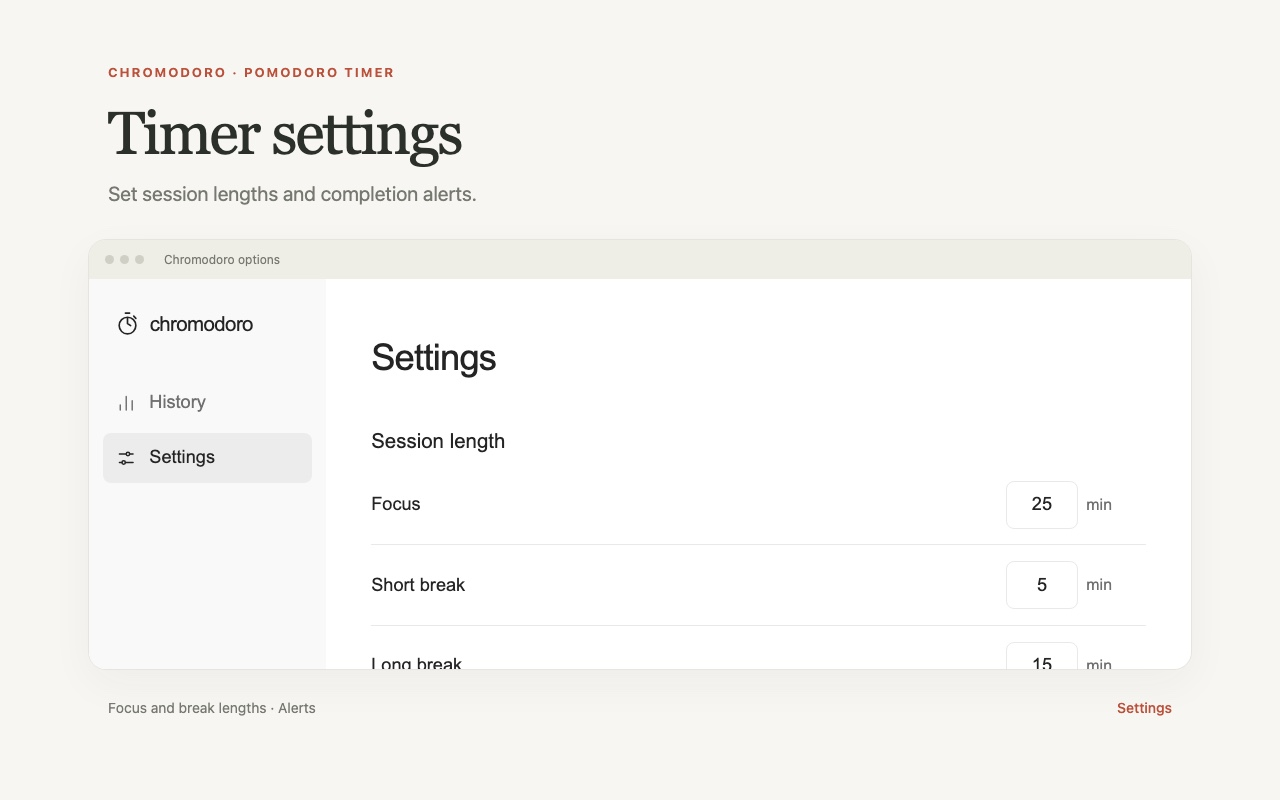
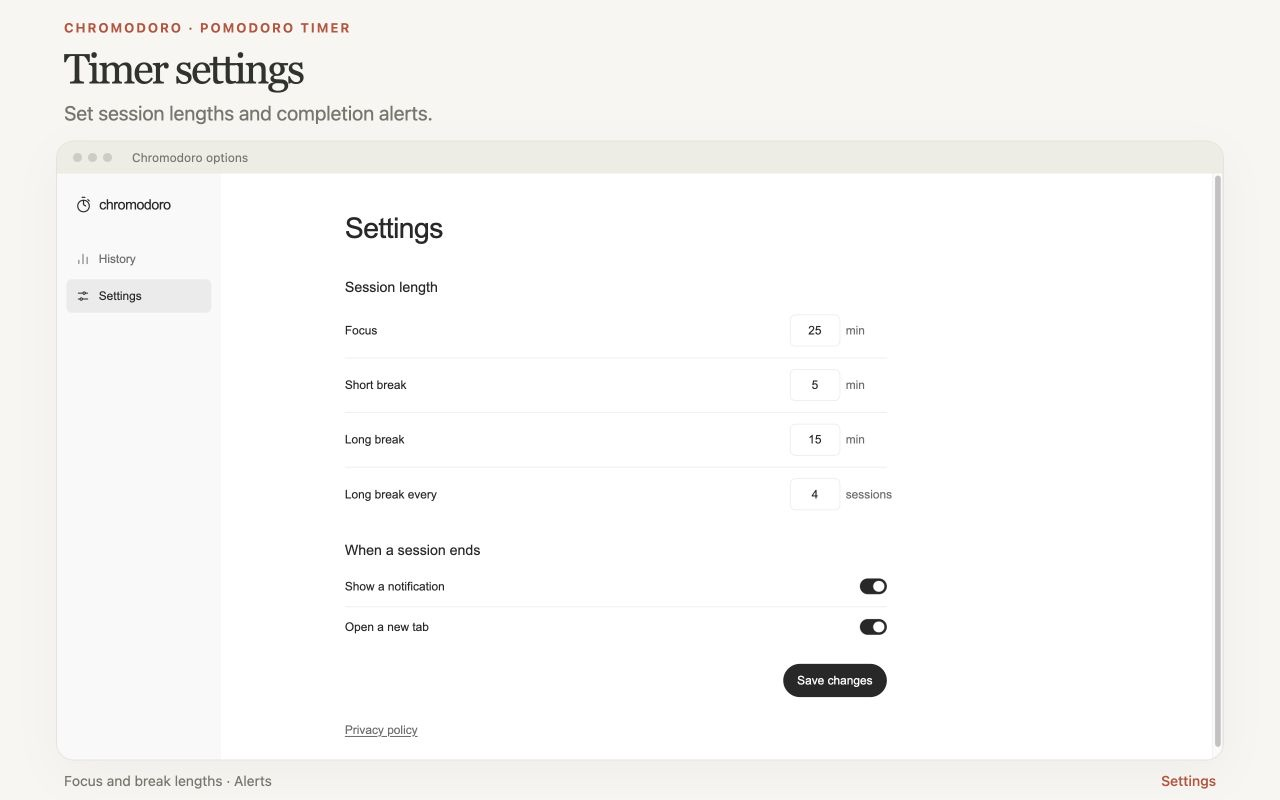
also fixed the competion page

diff --git a/alert.html b/alert.html
@@ -3,35 +3,31 @@
 <head>
   <meta charset="UTF-8">
   <meta name="viewport" content="width=device-width, initial-scale=1">
-  <title>Chromodoro</title>
+  <title>Session complete · Chromodoro</title>
   <link rel="icon" type="image/png" sizes="32x32" href="icons/icon32.png">
-  <style>
-    :root{color-scheme:light;--bg:#f7f6f2;--paper:#fffefa;--text:#2c302b;--muted:#76796f;--line:#e6e5dd;--accent:#bb513b;--green:#39745d;font-family:Inter,-apple-system,BlinkMacSystemFont,"Segoe UI",sans-serif;font-size:16px}
-    *{box-sizing:border-box}
-    body{margin:0;min-height:100vh;display:flex;align-items:center;justify-content:center;background:var(--bg);color:var(--text)}
-    main{text-align:center;padding:24px}
-    img{width:56px;height:56px}
-    h1{font-family:Georgia,serif;font-weight:400;font-size:40px;letter-spacing:-1.4px;margin:22px 0 10px}
-    p{color:var(--muted);font-size:17px;margin:0 0 34px}
-    .actions{display:flex;gap:10px;justify-content:center;flex-wrap:wrap}
-    button{font:inherit;cursor:pointer;border-radius:9px;padding:15px 28px;font-size:16px;font-weight:550;outline-offset:4px}
-    button:focus-visible{outline:2px solid var(--accent)}
-    button:disabled{cursor:default;opacity:.48}
-    .primary{background:var(--accent);color:#fff;border:0}.primary:hover{background:#a64632}
-    .primary.break{background:var(--green)}.primary.break:hover{background:#2e6150}
-    .secondary{background:transparent;border:1px solid var(--line);color:var(--text)}.secondary:hover{background:var(--paper)}
-  </style>
+  <link rel="stylesheet" href="styles.css">
   <script type="module" src="alert.js"></script>
 </head>
 <body>
-  <main>
-    <img src="icons/icon128.png" alt="">
-    <h1 id="headline">Session complete</h1>
-    <p id="detail"></p>
-    <div class="actions">
-      <button id="primary" class="primary" disabled></button>
-      <button id="secondary" class="secondary" hidden>Skip to focus</button>
-    </div>
-  </main>
+  <a class="skip-link" href="#main">Skip to content</a>
+  <div class="app-shell">
+    <aside class="sidebar">
+      <a class="brand" href="history.html" aria-label="Chromodoro home"><svg class="brand-icon" viewBox="0 0 24 24" fill="none" stroke="currentColor" stroke-width="1.6" stroke-linecap="round" stroke-linejoin="round" aria-hidden="true"><path d="M10 2h4M12 7v5l3 2M18 5l2 2"/><circle cx="12" cy="14" r="8"/></svg>chromodoro</a>
+      <nav class="page-nav" aria-label="Main navigation">
+        <a href="history.html"><svg viewBox="0 0 24 24" fill="none" stroke="currentColor" stroke-width="1.7" stroke-linecap="round" aria-hidden="true"><path d="M5 20v-6M12 20V4M19 20V9"/></svg>History</a>
+        <a href="options.html"><svg viewBox="0 0 24 24" fill="none" stroke="currentColor" stroke-width="1.7" stroke-linecap="round" aria-hidden="true"><path d="M4 7h8m4 0h4M4 17h3m4 0h9"/><circle cx="14" cy="7" r="2"/><circle cx="9" cy="17" r="2"/></svg>Settings</a>
+      </nav>
+    </aside>
+    <main id="main" class="page-content completion-content">
+      <section class="completion-panel" aria-labelledby="headline">
+        <h1 id="headline">Session complete</h1>
+        <p id="detail" class="muted" role="status"></p>
+        <div class="completion-actions">
+          <button id="primary" class="button primary" type="button" disabled></button>
+          <button id="secondary" class="button" type="button" hidden>Skip to focus</button>
+        </div>
+      </section>
+    </main>
+  </div>
 </body>
 </html>

diff --git a/store/history-screenshot.html b/store/history-screenshot.html
@@ -1,4 +1,4 @@
 <!doctype html>
 <html lang="en"><head><meta charset="utf-8"><title>Chromodoro history screenshot</title>
-<style>*{box-sizing:border-box}body{margin:0;width:1280px;height:800px;overflow:hidden;background:#f7f6f2;color:#2c302b;font-family:-apple-system,BlinkMacSystemFont,"Segoe UI",sans-serif}.intro{padding:64px 108px 34px}.eyebrow{font-size:13px;letter-spacing:2px;font-weight:650;color:#bb513b;text-transform:uppercase}h1{font-family:Georgia,serif;font-size:60px;line-height:1.05;letter-spacing:-2px;font-weight:400;margin:22px 0 17px}.intro p{font-size:20px;color:#76796f;margin:0}.window{margin:0 88px;background:#f7f6f2;border:1px solid #e6e5dd;border-radius:18px;overflow:hidden;box-shadow:0 14px 44px #2c302b0b}.bar{height:39px;background:#eeede6;display:flex;align-items:center;padding:0 16px;gap:6px}.dot{width:9px;height:9px;border-radius:50%;background:#d0cfc5}.label{font-size:12px;color:#76796f;margin-left:14px}iframe{display:block;width:100%;height:410px;border:0}.foot{margin:29px 108px;font-size:14px;color:#76796f;display:flex;justify-content:space-between}.foot strong{font-weight:500;color:#bb513b}</style></head>
-<body><div class="intro"><div class="eyebrow">Chromodoro · Pomodoro timer</div><h1>Pomodoro history</h1><p>Daily session counts and CSV export.</p></div><div class="window"><div class="bar"><i class="dot"></i><i class="dot"></i><i class="dot"></i><span class="label">Pomodoro history</span></div><iframe src="../history.html" title="Actual Chromodoro history interface with example data"></iframe></div><div class="foot"><span>Daily totals · Past year · CSV export</span><strong>Example history</strong></div></body></html>
+<style>*{box-sizing:border-box}body{margin:0;width:1280px;height:800px;overflow:hidden;background:#f7f6f2;color:#2c302b;font-family:-apple-system,BlinkMacSystemFont,"Segoe UI",sans-serif}.intro{padding:20px 64px 16px}.eyebrow{font-size:13px;letter-spacing:2px;font-weight:650;color:#bb513b;text-transform:uppercase}h1{font-family:Georgia,serif;font-size:42px;line-height:1.05;letter-spacing:-2px;font-weight:400;margin:12px 0 10px}.intro p{font-size:20px;color:#76796f;margin:0}.window{margin:0 56px;background:#f7f6f2;border:1px solid #e6e5dd;border-radius:18px;overflow:hidden;box-shadow:0 14px 44px #2c302b0b}.bar{height:32px;background:#eeede6;display:flex;align-items:center;padding:0 16px;gap:6px}.dot{width:9px;height:9px;border-radius:50%;background:#d0cfc5}.label{font-size:12px;color:#76796f;margin-left:14px}.viewport{height:586px;overflow:hidden}iframe{display:block;width:142.857143%;height:837.142857px;border:0;transform:scale(.7);transform-origin:top left}.foot{margin:12px 64px;font-size:14px;color:#76796f;display:flex;justify-content:space-between}.foot strong{font-weight:500;color:#bb513b}</style></head>
+<body><div class="intro"><div class="eyebrow">Chromodoro · Pomodoro timer</div><h1>Pomodoro history</h1><p>Your focus history, with Chrome account sync.</p></div><div class="window"><div class="bar"><i class="dot"></i><i class="dot"></i><i class="dot"></i><span class="label">Pomodoro history</span></div><div class="viewport"><iframe src="../history.html" title="Actual Chromodoro history interface with example data"></iframe></div></div><div class="foot"><span>Past year · Chrome sync · CSV export</span><strong>Example history</strong></div></body></html>

diff --git a/store/settings-screenshot.html b/store/settings-screenshot.html
@@ -1,4 +1,4 @@
 <!doctype html>
 <html lang="en"><head><meta charset="utf-8"><title>Chromodoro settings screenshot</title>
-<style>*{box-sizing:border-box}body{margin:0;width:1280px;height:800px;overflow:hidden;background:#f7f6f2;color:#2c302b;font-family:-apple-system,BlinkMacSystemFont,"Segoe UI",sans-serif}.intro{padding:64px 108px 34px}.eyebrow{font-size:13px;letter-spacing:2px;font-weight:650;color:#bb513b;text-transform:uppercase}h1{font-family:Georgia,serif;font-size:60px;line-height:1.05;letter-spacing:-2px;font-weight:400;margin:22px 0 17px}.intro p{font-size:20px;color:#76796f;margin:0}.window{margin:0 88px;background:#f7f6f2;border:1px solid #e6e5dd;border-radius:18px;overflow:hidden;box-shadow:0 14px 44px #2c302b0b}.bar{height:39px;background:#eeede6;display:flex;align-items:center;padding:0 16px;gap:6px}.dot{width:9px;height:9px;border-radius:50%;background:#d0cfc5}.label{font-size:12px;color:#76796f;margin-left:14px}iframe{display:block;width:100%;height:390px;border:0}.foot{margin:29px 108px;font-size:14px;color:#76796f;display:flex;justify-content:space-between}.foot strong{font-weight:500;color:#bb513b}</style></head>
-<body><div class="intro"><div class="eyebrow">Chromodoro · Pomodoro timer</div><h1>Timer settings</h1><p>Set session lengths and completion alerts.</p></div><div class="window"><div class="bar"><i class="dot"></i><i class="dot"></i><i class="dot"></i><span class="label">Chromodoro options</span></div><iframe src="../options.html" title="Actual Chromodoro settings interface"></iframe></div><div class="foot"><span>Focus and break lengths · Alerts</span><strong>Settings</strong></div></body></html>
+<style>*{box-sizing:border-box}body{margin:0;width:1280px;height:800px;overflow:hidden;background:#f7f6f2;color:#2c302b;font-family:-apple-system,BlinkMacSystemFont,"Segoe UI",sans-serif}.intro{padding:20px 64px 16px}.eyebrow{font-size:13px;letter-spacing:2px;font-weight:650;color:#bb513b;text-transform:uppercase}h1{font-family:Georgia,serif;font-size:42px;line-height:1.05;letter-spacing:-2px;font-weight:400;margin:12px 0 10px}.intro p{font-size:20px;color:#76796f;margin:0}.window{margin:0 56px;background:#f7f6f2;border:1px solid #e6e5dd;border-radius:18px;overflow:hidden;box-shadow:0 14px 44px #2c302b0b}.bar{height:32px;background:#eeede6;display:flex;align-items:center;padding:0 16px;gap:6px}.dot{width:9px;height:9px;border-radius:50%;background:#d0cfc5}.label{font-size:12px;color:#76796f;margin-left:14px}.viewport{height:586px;overflow:hidden}iframe{display:block;width:142.857143%;height:837.142857px;border:0;transform:scale(.7);transform-origin:top left}.foot{margin:12px 64px;font-size:14px;color:#76796f;display:flex;justify-content:space-between}.foot strong{font-weight:500;color:#bb513b}</style></head>
+<body><div class="intro"><div class="eyebrow">Chromodoro · Pomodoro timer</div><h1>Timer settings</h1><p>Set session lengths and completion alerts.</p></div><div class="window"><div class="bar"><i class="dot"></i><i class="dot"></i><i class="dot"></i><span class="label">Chromodoro options</span></div><div class="viewport"><iframe src="../options.html" title="Actual Chromodoro settings interface"></iframe></div></div><div class="foot"><span>Focus and break lengths · Alerts</span><strong>Settings</strong></div></body></html>

diff --git a/styles.css b/styles.css
@@ -46,6 +46,10 @@ svg { width: 1.125rem; height: 1.125rem; flex-shrink: 0; }
 .button:hover { background: var(--sidebar); border-color: #d2d2d2; }
 .button.primary { background: var(--text); border-color: var(--text); color: #fff; padding: .5625rem 1.0625rem; font-weight: 500; }
 .button.primary:hover { background: #404040; }
+.completion-content { display: flex; align-items: center; justify-content: center; }
+.completion-panel { width: 100%; max-width: 34rem; }
+.completion-panel #detail { margin-top: 10px; }
+.completion-actions { display: flex; align-items: center; flex-wrap: wrap; gap: 10px; margin-top: 32px; }
 .section-heading { display: flex; align-items: center; justify-content: space-between; gap: 16px; flex-wrap: wrap; }
 .heat-card { container-type: inline-size; }
 .history-total { display: flex; align-items: baseline; flex-wrap: wrap; gap: 10px; margin: 24px 0 28px; }
@@ -110,6 +114,7 @@ body > main { max-width: 880px; margin: 0 auto; padding: 0 24px 48px; }
   .page-nav { flex-direction: row; }
   .page-nav a { padding: 10px 14px; }
   .page-content { padding: 30px 22px 36px; }
+  .completion-content { min-height: calc(100svh - 132px); }
   h1 { font-size: 2rem; }
   .setting-row { gap: 12px; }
   .input-wrap { gap: 5px; }

diff --git a/alert.js b/alert.js
@@ -15,7 +15,6 @@ function render(state) {
   $('detail').textContent = done ? `${done.minutes} minutes` : '';
   const next = state.nextPhase;
   $('primary').textContent = `Start ${LABELS[next].toLowerCase()}`;
-  $('primary').classList.toggle('break', next !== 'focus');
   $('primary').disabled = false;
   // Only worth offering when the queued phase is a break we could skip past.
   $('secondary').hidden = next === 'focus';

diff --git a/store/RELEASE_CHECKLIST.md b/store/RELEASE_CHECKLIST.md
@@ -1,0 +1,40 @@
+# Chromodoro 1.1.0 release checklist
+
+Prepared October 1, 2026. Local materials are prepared; this does not record a store submission or publication.
+
+## Files to use
+
+- Upload `release/chromodoro-1.1.0.zip` to the existing item's **Package → Upload New Package** in the Chrome Web Store Developer Dashboard.
+- `release/chromodoro-store-upload-kit.zip` is the complete handoff bundle. Extract it for the listing copy, reviewer instructions, privacy policy, release notes, store icon, screenshots, and promotional tile. Do not upload this outer ZIP as the extension.
+- `release/SHA256SUMS` verifies the extension ZIP. From the repository root or extracted kit root, run `shasum -a 256 -c release/SHA256SUMS`.
+- Use the newly generated ZIPs; an older extracted `release/chromodoro-store-upload-kit/` folder may contain stale materials.
+
+## Local verification
+
+- [x] All 28 automated tests passed, including upgrade migration, timer recovery, history merging, offline retries, and storage limits.
+- [x] Manifest and package metadata both identify version 1.1.0.
+- [x] History, Settings, and completion store screenshots recaptured from the current pages with preview-only example data; full controls are visible.
+- [x] Three screenshots are 1280×800 JPEGs, the promotional tile is 440×280 PNG, and the store icon is 128×128 PNG.
+- [x] Release notes, listing copy, permission explanations, and English/Chinese submission guidance prepared.
+
+The browser screenshots use a local preview that simulates extension APIs. They do not verify real Chrome account delivery or operating-system notifications.
+
+## Before submitting
+
+- [ ] Confirm the existing store item's published and uploaded versions are below 1.1.0. If 1.1.0 was already uploaded, choose a higher version, update both JSON files and release documents, and rebuild.
+- [ ] Publish or update the public privacy-policy page to match `PRIVACY.md`, including Chrome Sync. Confirm it is accessible without signing in and enter its URL in Privacy practices. The repository does not yet record a verified public URL.
+- [ ] On a real Chrome installation, export existing history, update/reload without uninstalling, and verify the history remains. Set Focus to 1 minute; start, pause, resume, and complete it. Confirm one completion, gray idle icon, completion tab, and notification when enabled. Check CSV export and restore the preferred focus duration.
+- [ ] Complete the two-device sync check in `README.md`: same extension ID/account, one completion on each device including one offline, then reconnect and verify combined totals without duplication after restart. Confirm timers remain independent.
+- [ ] Update the existing listing with `store/listing.md` and the supplied images. Review the changed Chrome Sync data-use disclosures against the dashboard's current definitions.
+- [ ] Confirm the public publisher/contact information and distribution settings. Preserve the existing item's identity so installed users receive the update.
+- [ ] Choose immediate publication after approval or deferred publication, then submit for review. Record the submission date and status in `store/listing.md`.
+
+## Rebuild
+
+Run `npm test`, then `npm run package`. Packaging checks that the two version fields match, uses an explicit runtime file list, tests both ZIP archives, and generates the checksum. Rebuild after any runtime, policy, listing, or asset change.
+
+## Official reference
+
+- [Update an existing store item](https://developer.chrome.com/docs/webstore/update)
+- [Store image requirements](https://developer.chrome.com/docs/webstore/images)
+- [Privacy fields and disclosures](https://developer.chrome.com/docs/webstore/cws-dashboard-privacy)

diff --git a/README.md b/README.md
@@ -84,7 +84,9 @@ Built using Chrome’s documented [Action API](https://developer.chrome.com/docs
 
 ## Chrome Web Store release
 
-Run `npm test`, then `npm run package` to create `release/chromodoro-<version>.zip` and `release/chromodoro-store-upload-kit.zip`. The extension package uses an explicit file list and includes all runtime assets and the privacy policy; development files and sample history are excluded. Upload only the extension ZIP to the Developer Dashboard. The separate kit contains the extension ZIP, store screenshots, listing copy, privacy policy, checksum, and a Chinese submission guide.
+Run `npm test`, then `npm run package` to create `release/chromodoro-<version>.zip` and `release/chromodoro-store-upload-kit.zip`. Packaging requires matching versions in `manifest.json` and `package.json`. The extension package uses an explicit file list and includes all runtime assets and the privacy policy; development files and sample history are excluded. Upload only the extension ZIP to the existing item's Package tab in the Developer Dashboard. The separate kit contains the extension ZIP, store icon, screenshots, listing copy, privacy policy, checksum, release notes, release checklist, and a Chinese submission guide.
+
+See [`store/RELEASE_NOTES.md`](store/RELEASE_NOTES.md) for the 1.1.0 changes and [`store/RELEASE_CHECKLIST.md`](store/RELEASE_CHECKLIST.md) for verification and remaining submission steps.
 
 Store copy, permission explanations, and reviewer instructions are in [`store/listing.md`](store/listing.md). Store images are in `store/assets/`: three 1280×800 screenshots and a 440×280 promotional tile. The history screenshot uses labeled example data rendered by the real history page. `node store/preview.mjs` runs the local-only asset preview; it is not part of the extension package.
 

diff --git a/store/RELEASE_NOTES.md b/store/RELEASE_NOTES.md
@@ -1,0 +1,18 @@
+# Chromodoro 1.1.0
+
+Prepared October 1, 2026. Publication date is pending.
+
+## What's new
+
+- Keep your recent Pomodoro history across devices with Chrome Sync. The most recent 24 calendar months of daily totals can sync when extension sync is enabled on the same Google account.
+- See sync status and retry from History. Offline changes share after reconnecting; Chrome controls delivery timing.
+- Enjoy redesigned History, Settings, and completion pages with a shared sidebar, a green activity heatmap, and clearer session and alert controls.
+- Keep older history locally and export all locally available records as CSV. Timers and settings remain independent on each device.
+
+## Upgrade details
+
+Existing local history is migrated automatically. Update the existing installation to retain its data; export a CSV before uninstalling or clearing storage. Separately collected histories on different devices are added together. Manually copied pre-sync profiles may contain overlapping totals that cannot be distinguished from separate work.
+
+Google Sheets backup was removed during preparation for this release. Older saved connection details are removed on upgrade; any rows previously uploaded to a spreadsheet remain there. The privacy policy now describes Chrome account sync and retention. No new permissions are requested compared with the local-history 1.0.0 package in this repository.
+
+Core timer use needs no login. Cross-device history requires the same extension ID on each device and Chrome extension sync enabled. "Ready for Chrome sync" confirms that Chrome accepted the local records, not that another device has received them.

diff --git a/store/listing.md b/store/listing.md
@@ -6,6 +6,8 @@ Last updated: October 1, 2026. This is the source for the store listing and revi
 
 The repository is at version `1.1.0`. Confirm the submitted or published version in the Chrome Web Store Developer Dashboard before uploading an update. Use `chromodoro.contact@gmail.com` as the public contact email and verify it in the dashboard. The intended launch settings are Free, Public, and All regions; confirm them there before submission.
 
+Release notes are in [`RELEASE_NOTES.md`](RELEASE_NOTES.md). Follow [`RELEASE_CHECKLIST.md`](RELEASE_CHECKLIST.md) for the prepared files, verification results, and remaining store checks. This is a prepared release, not a confirmation of submission or publication.
+
 ## Name
 Chromodoro — Pomodoro Timer
 
@@ -93,8 +95,7 @@ Timer settings and daily focus totals are stored locally. Recent daily focus act
 
 | Version | Date | Summary | Store status |
 | --- | --- | --- | --- |
-| 1.1.0 | October 1, 2026 | Added Chrome account history sync with safe merging, local archives, and status | Not submitted |
-| Unreleased | September 28, 2026 | Improved the idle and paused icon; replaced personal links with branded contact information; removed Google Sheets backup | Not submitted |
+| 1.1.0 | Prepared October 1, 2026 | Chrome account history sync, local archives and sync status; redesigned History, Settings, and completion pages; includes the previously unreleased icon, contact, and Sheets-backup removal changes | Prepared; dashboard status to confirm |
 | 1.0.0 | To confirm | Toolbar Pomodoro timer and local history | To confirm in Developer Dashboard |
 
 ## Reviewer test instructions

diff --git a/store/SUBMISSION_GUIDE.zh-CN.md b/store/SUBMISSION_GUIDE.zh-CN.md
@@ -2,6 +2,8 @@
 
 本文件说明每份材料的用途。英文商店文案、权限理由和审核员测试说明统一维护在 `store/listing.md`，提交时从那里复制，以免出现多个版本。
 
+本次更新准备为 **1.1.0**。完整检查清单见 `store/RELEASE_CHECKLIST.md`，更新说明见 `store/RELEASE_NOTES.md`。新生成的整套素材包已包含单独的 `icons/icon128.png`；请使用新 ZIP，不要沿用旧的解压文件夹。
+
 ## 先准备账号与隐私政策网址
 
 1. 在开发者后台的 **Settings（设置）** 页面将公开发布者名称设为 **Chromodoro**，联系邮箱设为 **chromodoro.contact@gmail.com**，并完成邮箱验证。账号需要启用两步验证；如果界面显示 **Account**，则在该页面查找相同的联系邮箱设置。
@@ -13,7 +15,7 @@
 
 | 后台位置 | 填写内容 |
 | --- | --- |
-| Add new item → Upload | 上传 `release/chromodoro-1.1.0.zip`；不要上传整套素材包 |
+| 已有条目 → Package → Upload New Package | 上传 `release/chromodoro-1.1.0.zip`；不要上传整套素材包。更新使用原条目；仅首次发布使用 Add new item |
 | Store listing → 名称、简短说明、详细说明 | 从 `store/listing.md` 的 Name、Short description、Detailed description 复制 |
 | Store listing → Category / Language | Productivity / English |
 | Store listing → 图标 | `icons/icon128.png` |
